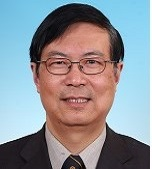
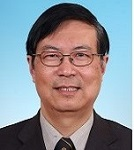
图像大小

diff --git a/css/nasac_fmac.css b/css/nasac_fmac.css
@@ -636,7 +636,7 @@ top:0
 }
 
 .photo7{
-	background-image:url(../images/photo/777.png)
+	background-image:url(../images/photo/77.png)
 }
 
 .photo8{
